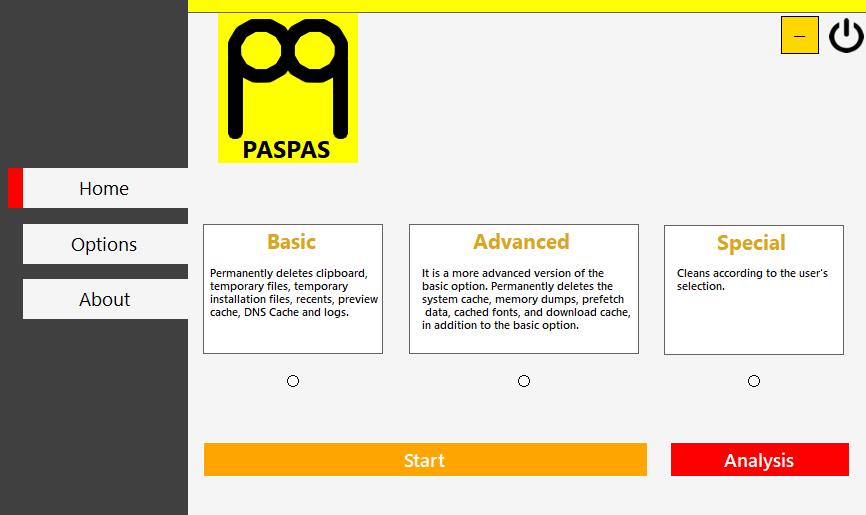
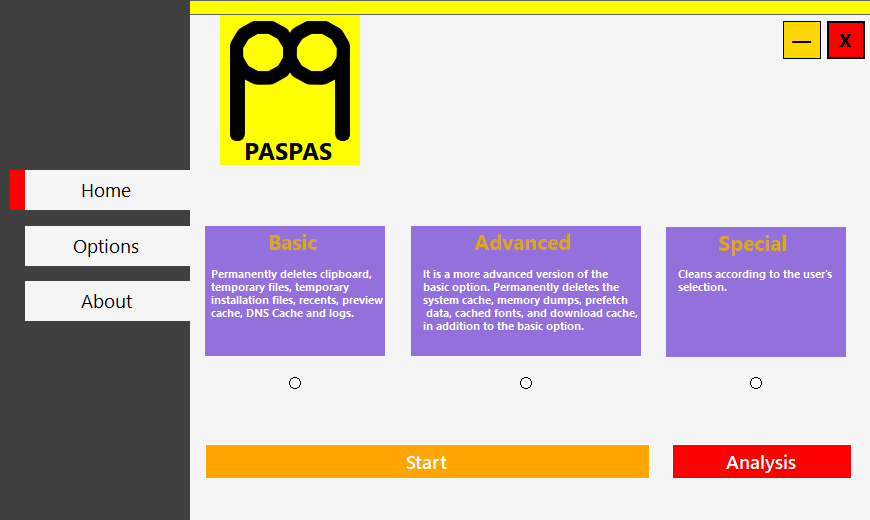
fix: - Debug restrictions removed. - Control processes for variables and operations have been reduced.

diff --git a/Main.cs b/Main.cs
@@ -16,14 +16,12 @@ using System.Windows.Forms;
 
 namespace PASPAS
 {
-    public partial class PASPAS_Main : Form
+    public partial class Main : Form
     {
-        int CP_Move;
-        int MX;
-        int MY;
+        int MoveCP;
+        int MapX;
+        int MapY;
         int FileCount = 0;
-        int Clipboard_Count = 0;
-        int DNSCache_Count = 0;
         int SelectedThread;
         readonly string SystemDirectory = Path.GetPathRoot(Environment.SystemDirectory);
         private readonly Dictionary<string, string> folders = new Dictionary<string, string>{
@@ -49,7 +47,7 @@ namespace PASPAS
         };
         private readonly string[] temporaryextensions = { ".tmp", ".log", ".txt", ".dat", ".iss", ".exe", ".ini", ".vbs", ".cvr", ".od", ".lnk", ".js", ".5f2", ".jro", ".41u", ".w0y", ".vmo", ".tmp", ".log", ".txt", ".dat", ".iss", ".exe", ".ini", ".vbs", ".cvr", ".od", ".lnk", ".js", ".5f2", ".jro", ".41u", ".w0y", ".diagsession", ".png", ".jpg", ".jpeg", ".q13", ".2im", ".html", ".rcl", ".5ar", ".xml", ".dll", ".Mtx", ".5f2", ".jro", ".41u", ".w0y" };
 
-        public PASPAS_Main()
+        public Main()
         {
             InitializeComponent();
             CheckForIllegalCrossThreadCalls = false;
@@ -79,8 +77,7 @@ namespace PASPAS
             }
             else
             {
-                Error error = new Error();
-                error.ShowDialog();
+                new Error().ShowDialog();
             }
             Clipboard_select.Checked = Properties.Settings.Default.Clipboard;
             TemporaryFiles_select.Checked = Properties.Settings.Default.TemporaryFiles;
@@ -106,19 +103,19 @@ namespace PASPAS
         }
         private void ControlPanel_MouseDown(object sender, MouseEventArgs e)
         {
-            CP_Move = 1;
-            MX = e.X;
-            MY = e.Y;
+            MoveCP = 1;
+            MapX = e.X;
+            MapY = e.Y;
         }
         private void ControlPanel_MouseUp(object sender, MouseEventArgs e)
         {
-            CP_Move = 0;
+            MoveCP = 0;
         }
         private void ControlPanel_MouseMove(object sender, MouseEventArgs e)
         {
-            if (CP_Move == 1)
+            if (MoveCP == 1)
             {
-                SetDesktopLocation(MousePosition.X - MX, MousePosition.Y - MY);
+                SetDesktopLocation(MousePosition.X - MapX, MousePosition.Y - MapY);
             }
         }
         private void Home_btn_Click(object sender, EventArgs e)
@@ -260,18 +257,16 @@ namespace PASPAS
             {
                 ProcessBox.Items.Add("");
                 ProcessBox.Items.Add("--->cmd.exe");
-                Process cmd = new Process();
                 ProcessStartInfo startinfo = new ProcessStartInfo
                 {
                     WindowStyle = ProcessWindowStyle.Hidden,
                     FileName = "cmd.exe",
                     Arguments = "cmd /c echo off | clip"
                 };
-                Clipboard_Count++;
-                ProcessBox.Items.Add(Clipboard_Count + " - " + startinfo.Arguments);
+                ProcessBox.Items.Add("- " + startinfo.Arguments);
                 ProcessBox.Items.Add("");
-                cmd.StartInfo = startinfo;
-                cmd.Start();
+                new Process().StartInfo = startinfo;
+                new Process().Start();
             }
             catch { }
         }
@@ -281,27 +276,16 @@ namespace PASPAS
             {
                 ProcessBox.Items.Add("");
                 ProcessBox.Items.Add("--->cmd.exe");
-                Process cmd = new Process();
                 ProcessStartInfo startinfo = new ProcessStartInfo
                 {
                     WindowStyle = ProcessWindowStyle.Hidden,
                     FileName = "cmd.exe",
-                    Arguments = "/C ipconfig /flushdns"
+                    Arguments = "/c ipconfig /flushdns && ipconfig /release && ipconfig /renew"
                 };
-                DNSCache_Count++;
-                ProcessBox.Items.Add(DNSCache_Count + " - " + startinfo.Arguments);
-
-                startinfo.Arguments = "/C ipconfig /release";
-                DNSCache_Count++;
-                ProcessBox.Items.Add(DNSCache_Count + " - " + startinfo.Arguments);
-
-                startinfo.Arguments = "/C ipconfig /renew";
-                DNSCache_Count++;
-                ProcessBox.Items.Add(DNSCache_Count + " - " + startinfo.Arguments);
-
-                cmd.StartInfo = startinfo;
-                cmd.Start();
+                ProcessBox.Items.Add("- " + startinfo.Arguments);
                 ProcessBox.Items.Add("");
+                new Process().StartInfo = startinfo;
+                new Process().Start();
             }
             catch { }
         }
@@ -364,15 +348,11 @@ namespace PASPAS
         }
         private void SingleDirectoryAnalyze(string directory)
         {
-            try
+            if (Directory.Exists(directory))
             {
-                if (Directory.Exists(directory))
-                {
-                    FileCount++;
-                    ProcessBox.Items.Add(FileCount + " | " + directory);
-                }
+                FileCount++;
+                ProcessBox.Items.Add(FileCount + " | " + directory);
             }
-            catch { }
         }
         private void SingleFileDeletion(string directory, string file)
         {
@@ -392,15 +372,11 @@ namespace PASPAS
         }
         private void SingleFileAnalyze(string directory, string file)
         {
-            try
+            if (File.Exists(file))
             {
-                if (File.Exists(file))
-                {
-                    FileCount++;
-                    ProcessBox.Items.Add(FileCount + " | " + directory + file);
-                }
+                FileCount++;
+                ProcessBox.Items.Add(FileCount + " | " + directory + file);
             }
-            catch { }
         }
         private void ThreadBasic()
         {
@@ -598,7 +574,6 @@ namespace PASPAS
                         AnalyzeFiles(folders["WinTemp2"], extensions.ToString());
                     }
                 }
-                Process_count.Text = FileCount.ToString();
                 if (Properties.Settings.Default.DownloadCache == true || SelectedThread == 1 || SelectedThread == 2)
                 {
                     SingleDirectoryAnalyze(folders["DownloadCache"]);
@@ -664,104 +639,82 @@ namespace PASPAS
         private void Start_Click(object sender, EventArgs e)
         {
             FileCount = 0;
-            Clipboard_Count = 0;
-            DNSCache_Count = 0;
             if (SelectedThread == 1)
             {
-                Thread BasicThread = new Thread(ThreadBasic);
-                BasicThread.Start();
+                new Thread(ThreadBasic).Start();
             }
             else if (SelectedThread == 2)
             {
-                Thread AdvancedThread = new Thread(ThreadAdvanced);
-                AdvancedThread.Start();
+                new Thread(ThreadAdvanced).Start();
             }
             else if (SelectedThread == 3)
             {
-                Thread SpecialThread = new Thread(ThreadSpecial);
-                SpecialThread.Start();
+                new Thread(ThreadSpecial).Start();
             }
             else
             {
-                Error error = new Error();
-                error.ShowDialog();
+                new Error().ShowDialog();
             }
             ProcessPanel.BringToFront();
             process_img.Visible = true;
             Finish.Visible = false;
             finish_img.Visible = false;
-            Home_btn.Enabled = false;
-            Options_btn.Enabled = false;
-            About_btn.Enabled = false;
             Start.Enabled = false;
         }
         private void Analysis_Click(object sender, EventArgs e)
         {
-            Thread analysis = new Thread(ThreadAnalysis);
-            analysis.Start();
+            new Thread(ThreadAnalysis).Start();
             ProcessPanel.BringToFront();
             process_img.Visible = true;
             Finish.Visible = false;
             finish_img.Visible = false;
-            Home_btn.Enabled = false;
-            Options_btn.Enabled = false;
-            About_btn.Enabled = false;
             Start.Enabled = false;
             Analysis.Enabled = false;
         }
         private void Finish_Click(object sender, EventArgs e)
         {
-            Home_btn.Enabled = true;
-            Options_btn.Enabled = true;
-            About_btn.Enabled = true;
             ProcessBox.Items.Clear();
             Process_count.Text = "0";
             Home_panel.BringToFront();
         }
         private void DarkModeSwitch()
         {
-            try
+            if (Properties.Settings.Default.DarkMode)
             {
-                if (Properties.Settings.Default.DarkMode == true)
+                foreach (Control c in Controls)
                 {
-                    foreach (Control c in Controls)
+                    if (c is Panel && (c.Name != "ControlPanel" && c.Name != "SidePanel" && c.Name != "LogoPanel" && c.Name != "ProcessTitlePanel" && c.Name != "DarkModeButton"))
                     {
-                        if (c is Panel && (c.Name != "ControlPanel" && c.Name != "SidePanel" && c.Name != "LogoPanel" && c.Name != "ProcessTitlePanel" && c.Name != "DarkModeButton"))
-                        {
-                            c.BackColor = ColorTranslator.FromHtml("#444449");
-                            c.ForeColor = Color.White;
-                            BackColor = c.BackColor;
-                        }
-                    }
-                }
-                else if (Properties.Settings.Default.DarkMode == false)
-                {
-                    foreach (Control c in Controls)
-                    {
-                        if (c is Panel && (c.Name != "ControlPanel" && c.Name != "SidePanel" && c.Name != "LogoPanel" && c.Name != "ProcessTitlePanel" && c.Name != "DarkModeButton"))
-                        {
-                            c.BackColor = Color.WhiteSmoke;
-                            c.ForeColor = Color.Black;
-                            BackColor = c.BackColor;
-                        }
+                        c.BackColor = ColorTranslator.FromHtml("#444449");
+                        c.ForeColor = Color.White;
+                        BackColor = c.BackColor;
                     }
                 }
             }
-            catch { }
+            else if (!Properties.Settings.Default.DarkMode)
+            {
+                foreach (Control c in Controls)
+                {
+                    if (c is Panel && (c.Name != "ControlPanel" && c.Name != "SidePanel" && c.Name != "LogoPanel" && c.Name != "ProcessTitlePanel" && c.Name != "DarkModeButton"))
+                    {
+                        c.BackColor = Color.WhiteSmoke;
+                        c.ForeColor = Color.Black;
+                        BackColor = c.BackColor;
+                    }
+                }
+            }
         }
         private void DarkModeButton_Click(object sender, EventArgs e)
         {
-            if (Properties.Settings.Default.DarkMode == true)
+            if (Properties.Settings.Default.DarkMode)
             {
-                Thread darkmode = new Thread(DarkModeSwitch);
-                darkmode.Start();
+                new Thread(DarkModeSwitch).Start();
                 Properties.Settings.Default.DarkMode = false;
                 Properties.Settings.Default.Save();
             }
-            else if (Properties.Settings.Default.DarkMode == false)
+            else if (!Properties.Settings.Default.DarkMode)
             {
-                Thread darkmode = new Thread(DarkModeSwitch);
-                darkmode.Start();
+                new Thread(DarkModeSwitch).Start();
                 Properties.Settings.Default.DarkMode = true;
                 Properties.Settings.Default.Save();
             }

diff --git a/Main.Designer.cs b/Main.Designer.cs
@@ -1,6 +1,6 @@
 namespace PASPAS
 {
-    partial class PASPAS_Main
+    partial class Main
     {
         private System.ComponentModel.IContainer components = null;
 
@@ -21,7 +21,7 @@
         /// </summary>
         private void InitializeComponent()
         {
-            System.ComponentModel.ComponentResourceManager resources = new System.ComponentModel.ComponentResourceManager(typeof(PASPAS_Main));
+            System.ComponentModel.ComponentResourceManager resources = new System.ComponentModel.ComponentResourceManager(typeof(Main));
             this.About_btn = new System.Windows.Forms.Button();
             this.Options_btn = new System.Windows.Forms.Button();
             this.Home_btn = new System.Windows.Forms.Button();

diff --git a/Properties/AssemblyInfo.cs b/Properties/AssemblyInfo.cs
@@ -32,6 +32,6 @@ using System.Runtime.InteropServices;
 // Tüm değerleri belirtebilir veya varsayılan Derleme ve Düzeltme Numaralarını kullanmak için
 // '*' kullanarak varsayılana ayarlayabilirsiniz:
 // [assembly: AssemblyVersion("1.0.*")]
-[assembly: AssemblyVersion("1.0.2.0")]
-[assembly: AssemblyFileVersion("1.0.2.0")]
+[assembly: AssemblyVersion("1.0.2.5")]
+[assembly: AssemblyFileVersion("1.0.2.5")]
 [assembly: NeutralResourcesLanguage("en")]

diff --git a/Program.cs b/Program.cs
@@ -13,7 +13,7 @@ namespace PASPAS
         {
             Application.EnableVisualStyles();
             Application.SetCompatibleTextRenderingDefault(false);
-            Application.Run(new PASPAS_Main());
+            Application.Run(new Main());
         }
     }
 }